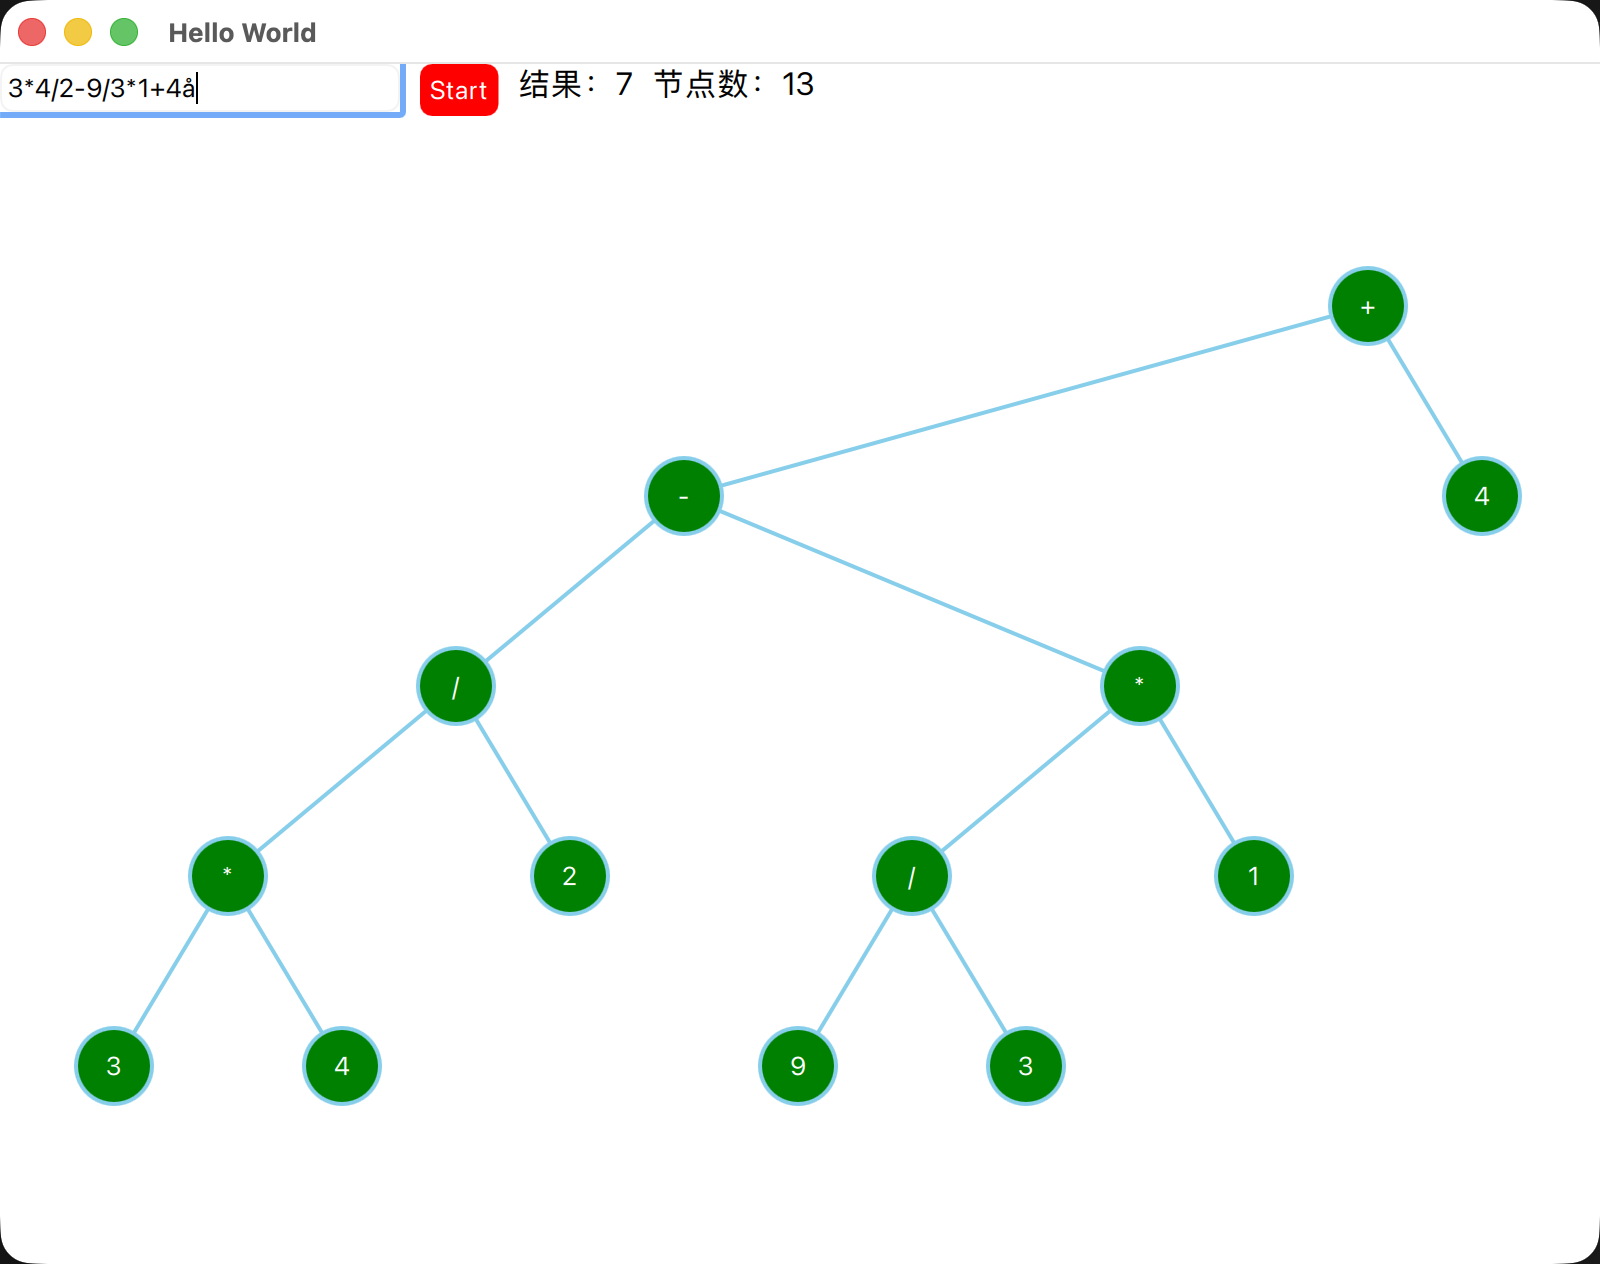
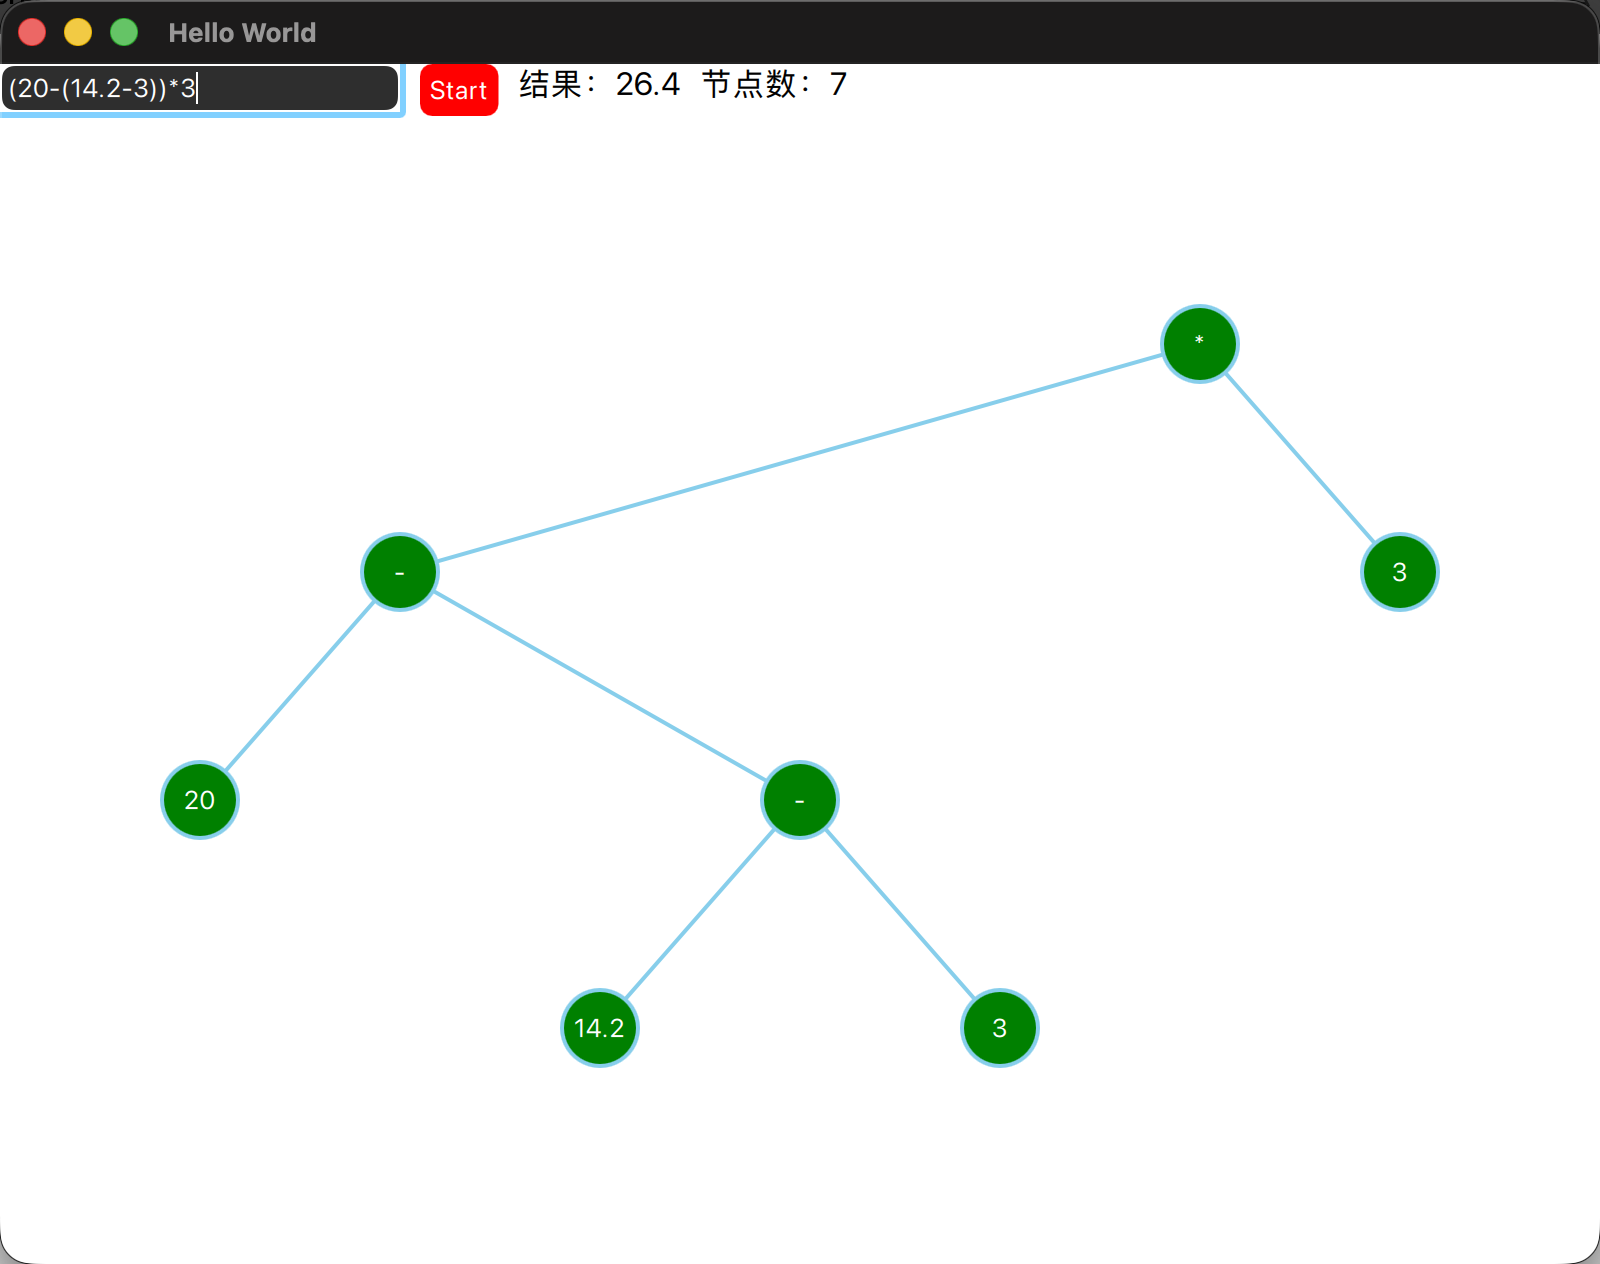
It now supports multi-digit, decimal, and parenthesis operations.

diff --git a/Treebackend.cpp b/Treebackend.cpp
@@ -9,7 +9,7 @@ void TreeBackend::createTree(const QString &exp)
     idCounter = 0;
     nodeStack.clear();
     opStack.clear();
-    root = nullptr;    
+    root = nullptr;
     parseExpression(exp);
     putDepth(root, 0);
     putId(root);
@@ -33,36 +33,88 @@ QVariantList TreeBackend::denseLine()
     return lines;
 }
 
-QString TreeBackend::sum() {
+QString TreeBackend::sum()
+{
     return QString::number(res);
 }
 
 void TreeBackend::parseExpression(const QString &exp)
 { // 解析数据并塞入两个栈
+    double temp = 0.0;
     for (int i = 0; i < exp.length(); i++)
     {
         QChar ch = exp[i];
         if (ch.isSpace())
             continue; // 跳过空格
-        if (ch.isDigit())
+        if (ch.isDigit() || ch == '.')
         { // 这里先玩简单的，十以内的数字
+            bool dotSeen = false;
+            double factor = 0.1;
+            while (i < exp.length() && (exp[i].isDigit() || exp[i] == '.'))
+            {
+                if (exp[i].isDigit() && !dotSeen)
+                {
+                    temp = temp * 10 + exp[i].digitValue();
+                }
+                else if (exp[i].isDigit() && dotSeen)
+                {
+                    temp = temp + exp[i].digitValue() * factor;
+                    factor *= 0.1;
+                }
+                else if (exp[i] == '.')
+                {
+                    if (dotSeen)
+                    {
+                        qWarning() << "Invalid number format"; //TODO 待处理
+                        break;
+                    }
+                    dotSeen = true;
+                }
+                i++;
+            }
             treeNode *node = new treeNode();
             node->type = NUM;
-            node->v.num = ch.digitValue();
+            node->v.num = temp;
+            temp = 0.0;
+            i--; // 这里i++之后条件不允许了，回退一格
             nodeStack.push_back(node);
         }
-        else if (ch == '+' || ch == '-' || ch == '*' || ch == '/')
+        else if (ch == '+' || ch == '-' || ch == '*' || ch == '/' || ch == '(' || ch == ')')
         {
-            // 当栈顶运算符的优先级高于或等于当前运算符时，需要先进行归约，保证左结合
-            while (!opStack.isEmpty() && precedence(opStack.back()) >= precedence(ch))
+            if (ch == '(')
             {
-                reduceOnce();
+                opStack.push_back(ch);
+                continue;
             }
-            opStack.push_back(ch);
+            else if (ch == ')')
+            {
+                while (!opStack.isEmpty() && opStack.back() != '(')
+                    reduceOnce();
+                if (!opStack.isEmpty() && opStack.back() == '(')
+                    opStack.pop_back(); // 弹出左括号
+                else
+                    qWarning() << "Mismatched parentheses"; // TODO 待处理
+                continue;
+            }
+            else
+            {
+                // 当栈顶运算符的优先级高于或等于当前运算符时，需要先进行归约，保证左结合
+                while (!opStack.isEmpty() && opStack.back() != '(' && precedence(opStack.back()) >= precedence(ch))
+                {
+                    reduceOnce();
+                }
+                opStack.push_back(ch);
+            }
         }
     }
     while (!opStack.isEmpty())
     {
+        if (opStack.back() == '(')
+        {
+            qWarning() << "Mismatched parentheses"; // TODO 待处理
+            opStack.pop_back();
+            continue;
+        }
         reduceOnce();
     }
     root = nodeStack.back();
@@ -71,17 +123,18 @@ void TreeBackend::parseExpression(const QString &exp)
 
 void TreeBackend::reduceOnce()
 {
-    if (opStack.isEmpty() || nodeStack.size() < 2) return;
+    if (opStack.isEmpty() || nodeStack.size() < 2)
+        return;
     QChar op = opStack.back();
     opStack.pop_back();
     treeNode *right = nodeStack.back();
     nodeStack.pop_back();
     treeNode *left = nodeStack.back();
     nodeStack.pop_back();
-    
+
     treeNode *parent = new treeNode();
     parent->type = OP;
-    parent->v.op = op.toLatin1(); //此处是QChar转char，我不知道原理
+    parent->v.op = op.toLatin1(); // 此处是QChar转char，我不知道原理
     parent->left = left;
     parent->right = right;
 
